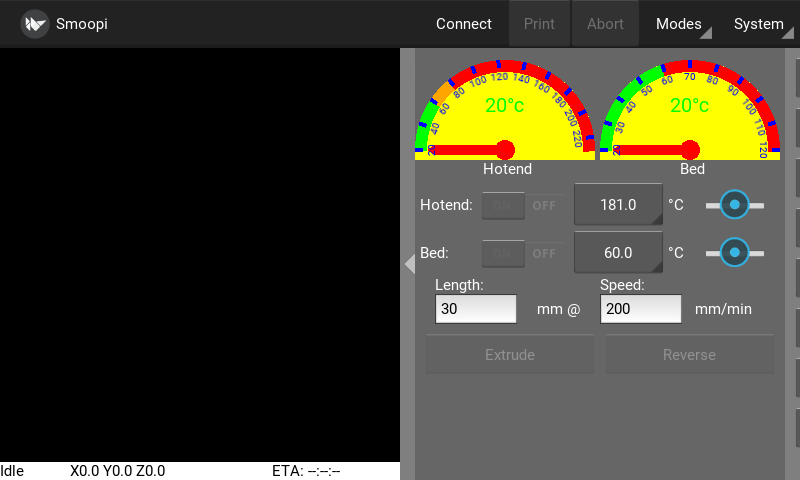
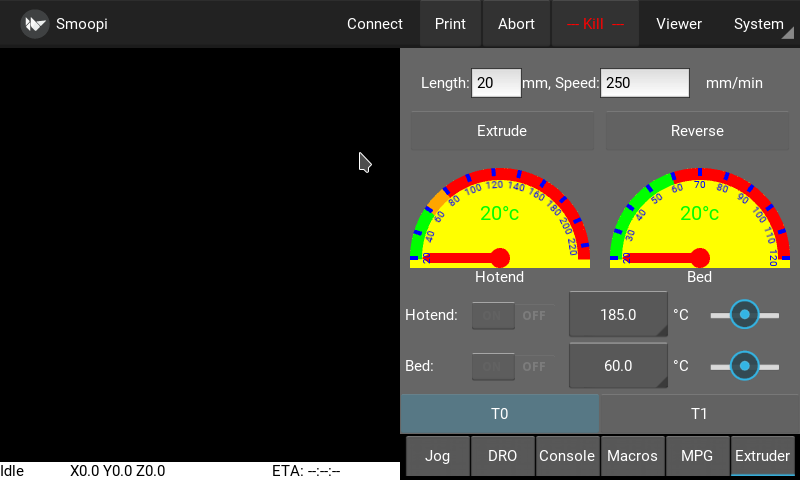
added some screen shots

diff --git a/README.md b/README.md
@@ -161,8 +161,10 @@ __NOTE__ to use the T0 and T1 buttons in the Extruder panel the temperature cont
 
 # Screen shots
 ![Extruder Screen](screen1.png)
+![DRO Screen](dro-mode.png)
 ![Command Screen](screen2.png)
 ![Jog Screen](screen3.png)
 ![Macro Screen](macro-screen.png)
+![MPG Screen](mpg-mode.png)
 ![Gcode Viewer Screen](viewerscreen.png)
 
